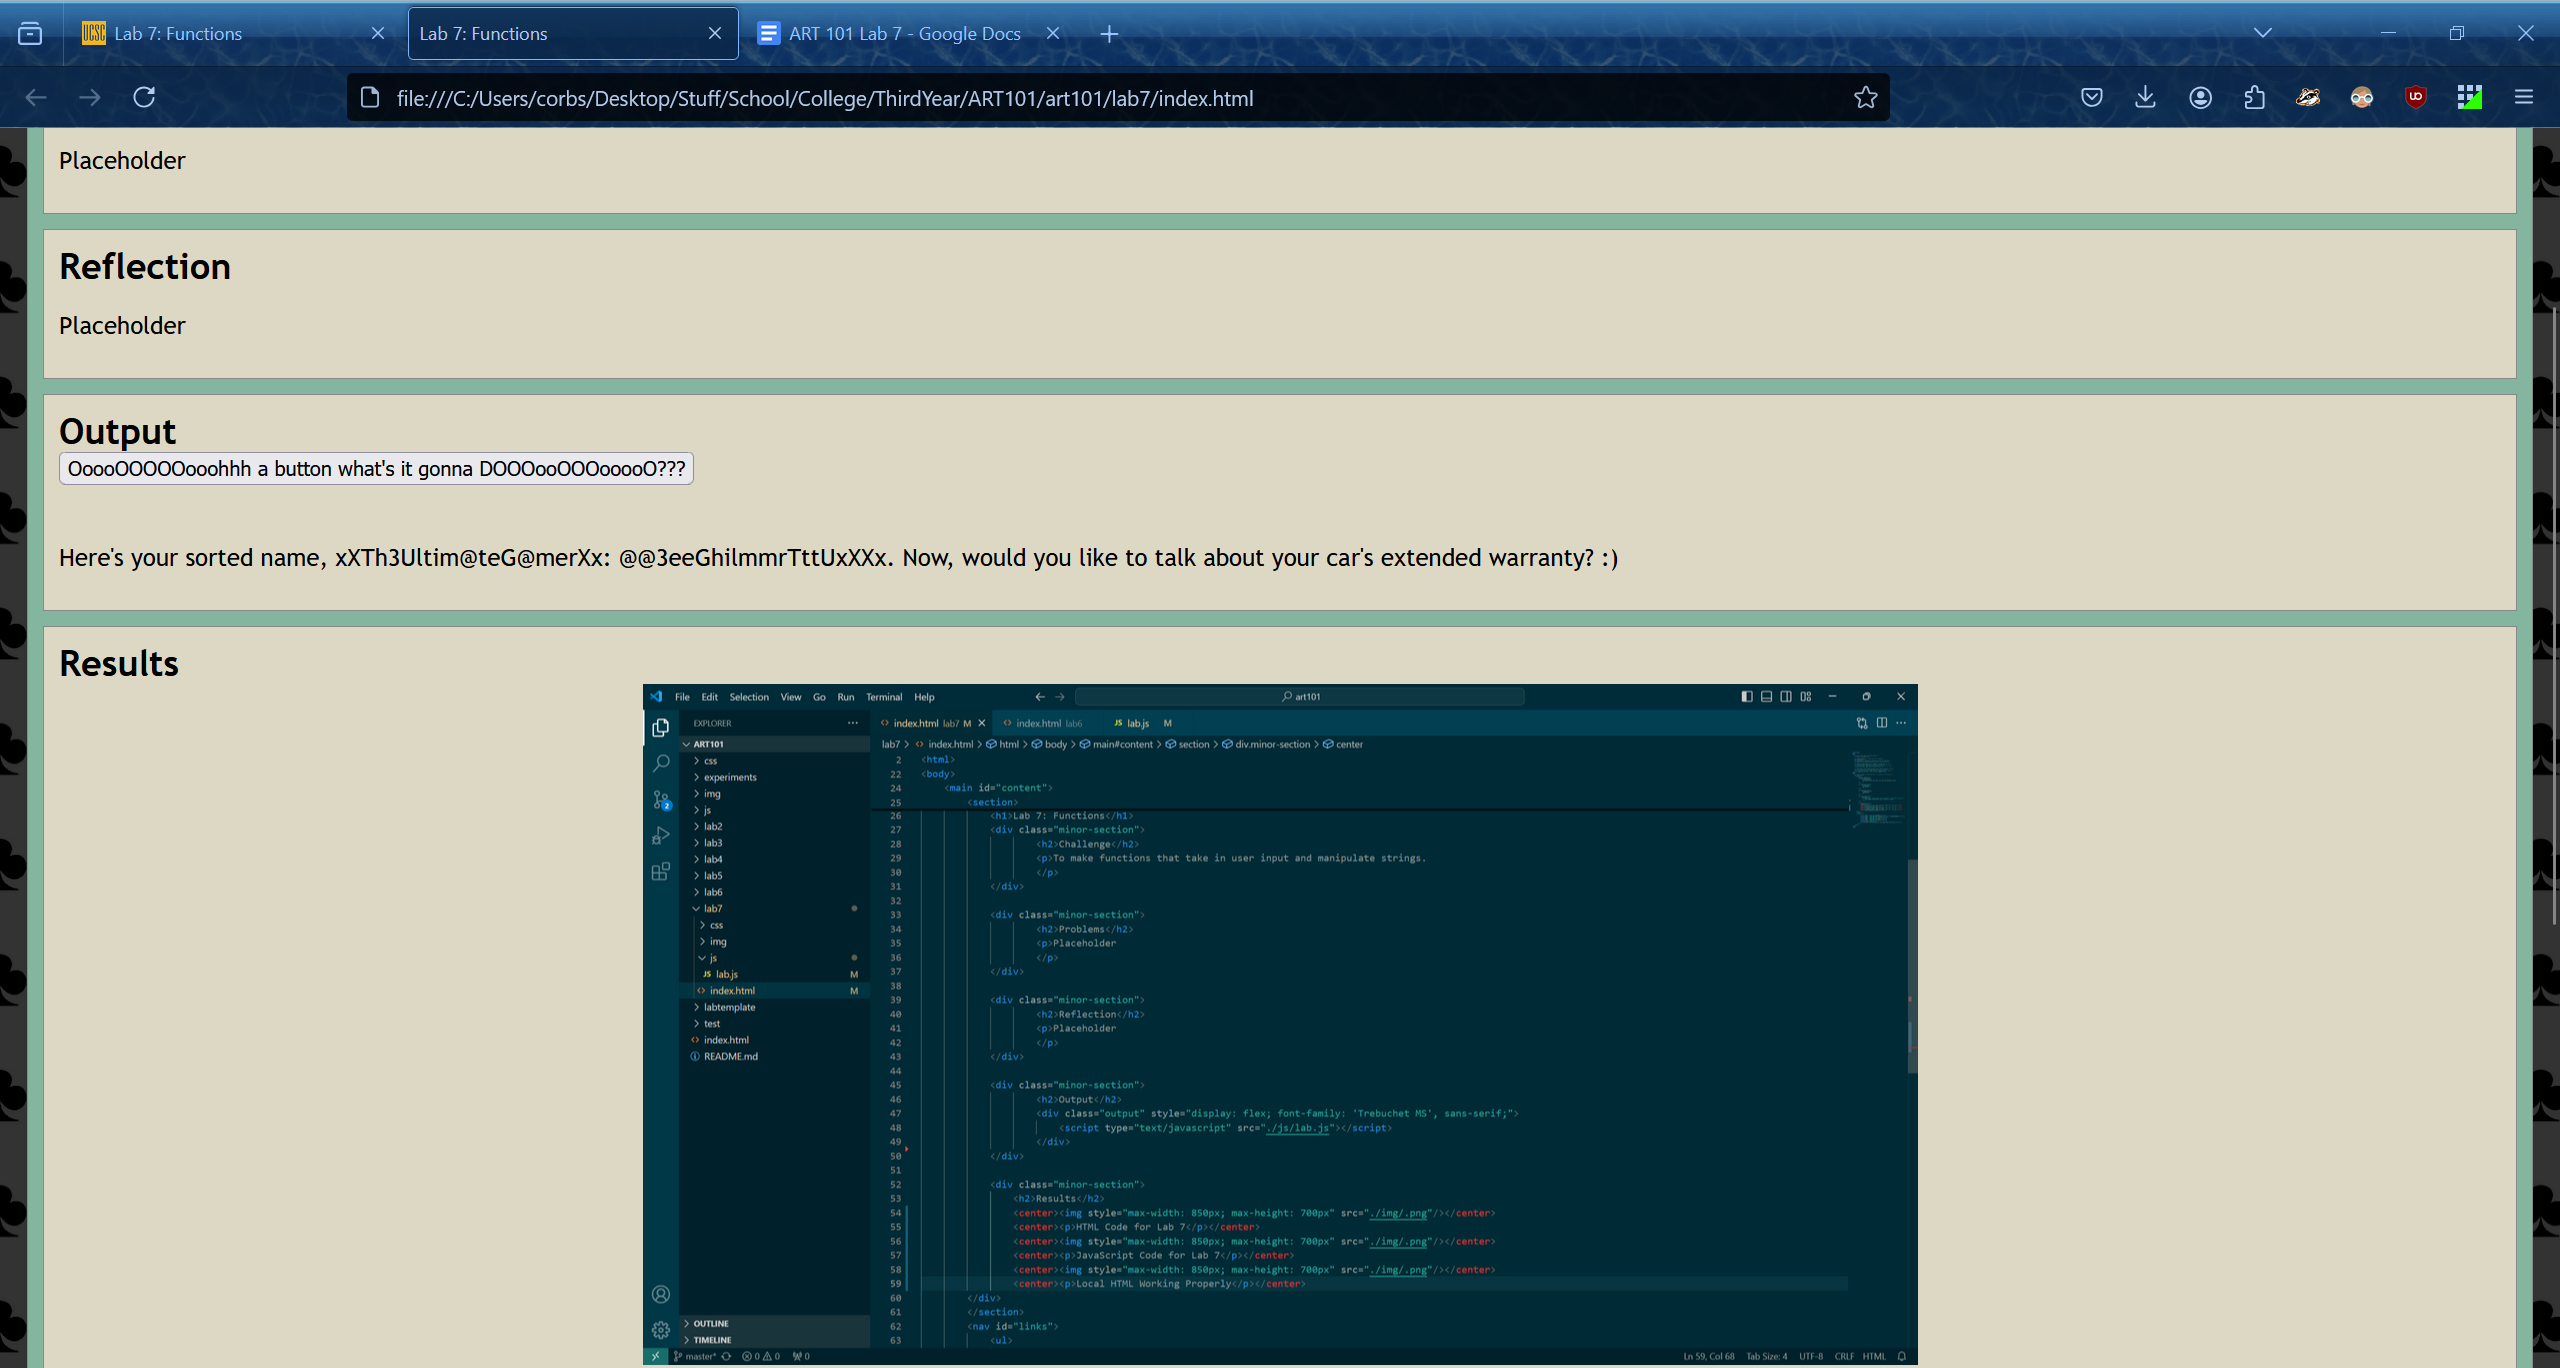
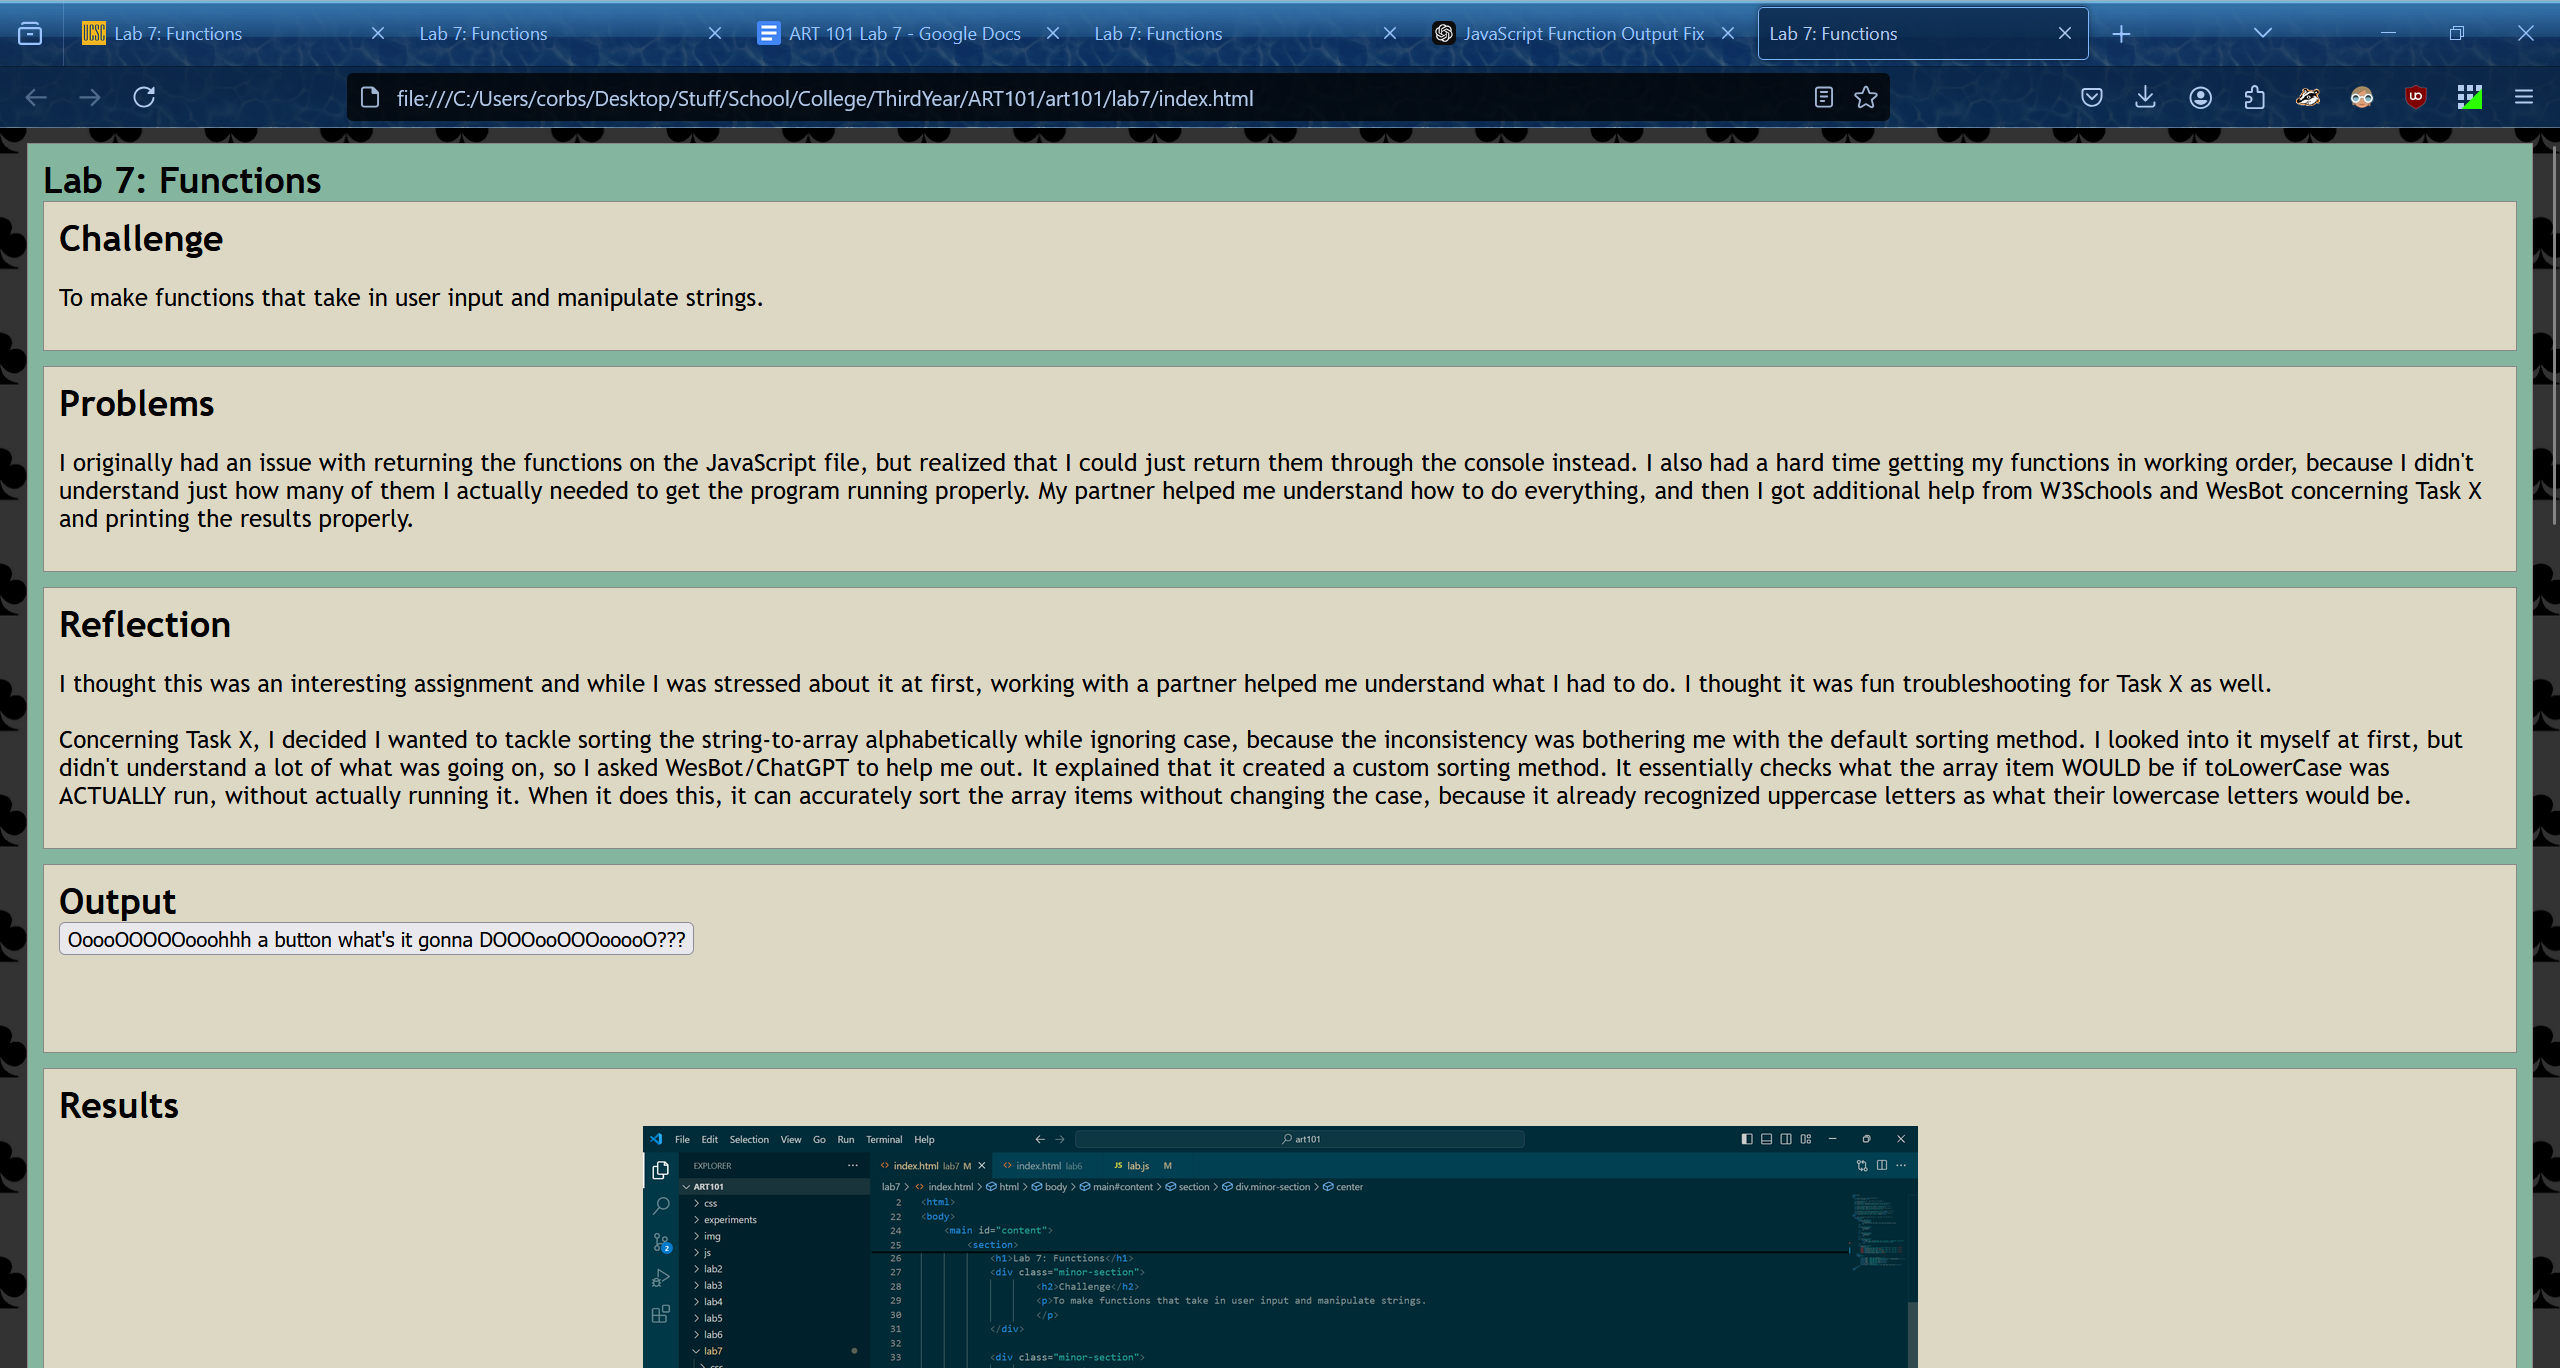
SADFGHJK,

diff --git a/lab7/index.html b/lab7/index.html
@@ -32,13 +32,22 @@
 
 			<div class="minor-section">
 					<h2>Problems</h2>
-					<p>Placeholder
+					<p>I originally had an issue with returning the functions on the JavaScript file, but realized that I could just return them through the console
+						instead. I also had a hard time getting my functions in working order, because I didn't understand just how many of them I actually needed
+						to get the program running properly. My partner helped me understand how to do everything, and then I got additional help from W3Schools
+						and WesBot concerning Task X and printing the results properly.
 					</p>
 			</div>
 
 			<div class="minor-section">
 					<h2>Reflection</h2>
-					<p>Placeholder
+					<p>I thought this was an interesting assignment and while I was stressed about it at first, working with a partner helped me understand what
+						I had to do. I thought it was fun troubleshooting for Task X as well.<br> <br>Concerning Task X, I decided I wanted to tackle sorting the
+						string-to-array alphabetically while ignoring case, because the inconsistency was bothering me with the default sorting method. I looked
+						into it myself at first, but didn't understand a lot of what was going on, so I asked WesBot/ChatGPT to help me out. It explained that it
+						created a custom sorting method. It essentially checks what the array item WOULD be if toLowerCase was ACTUALLY run, without actually running
+						it. When it does this, it can accurately sort the array items without changing the case, because it already recognized uppercase letters as
+						what their lowercase letters would be.
 					</p>
 			</div>
 
